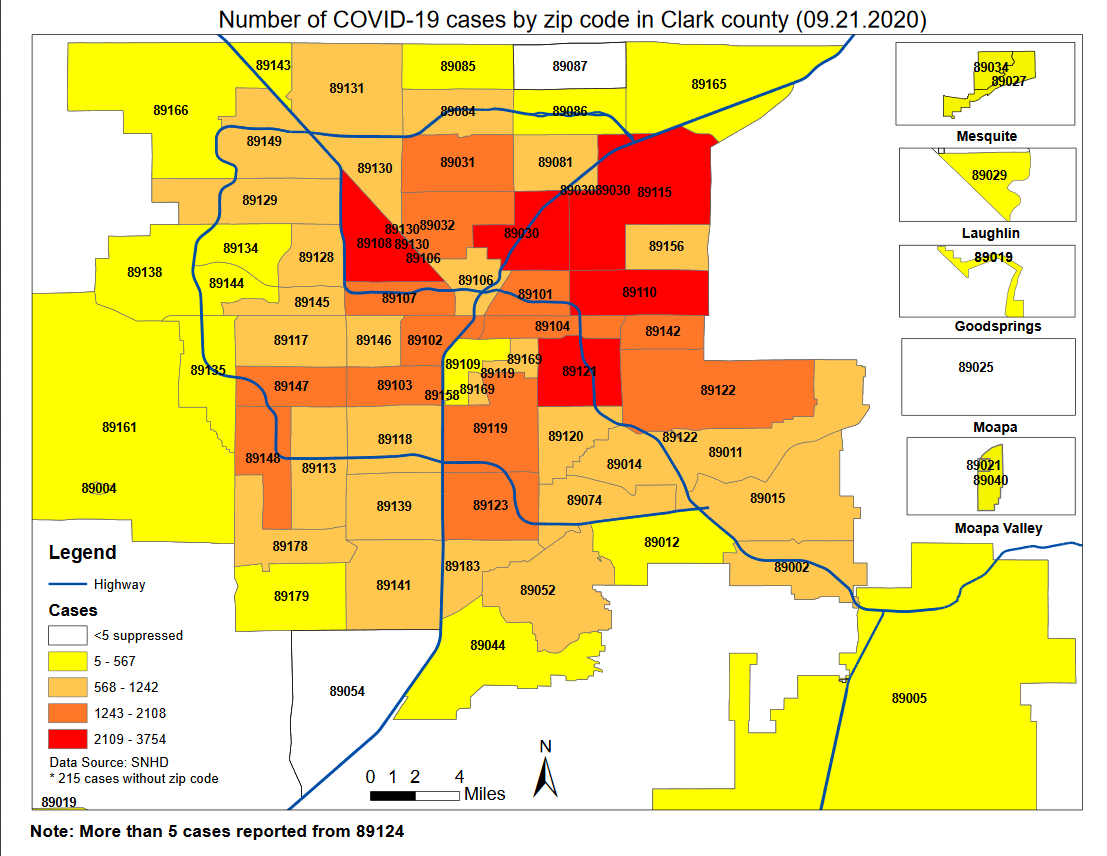
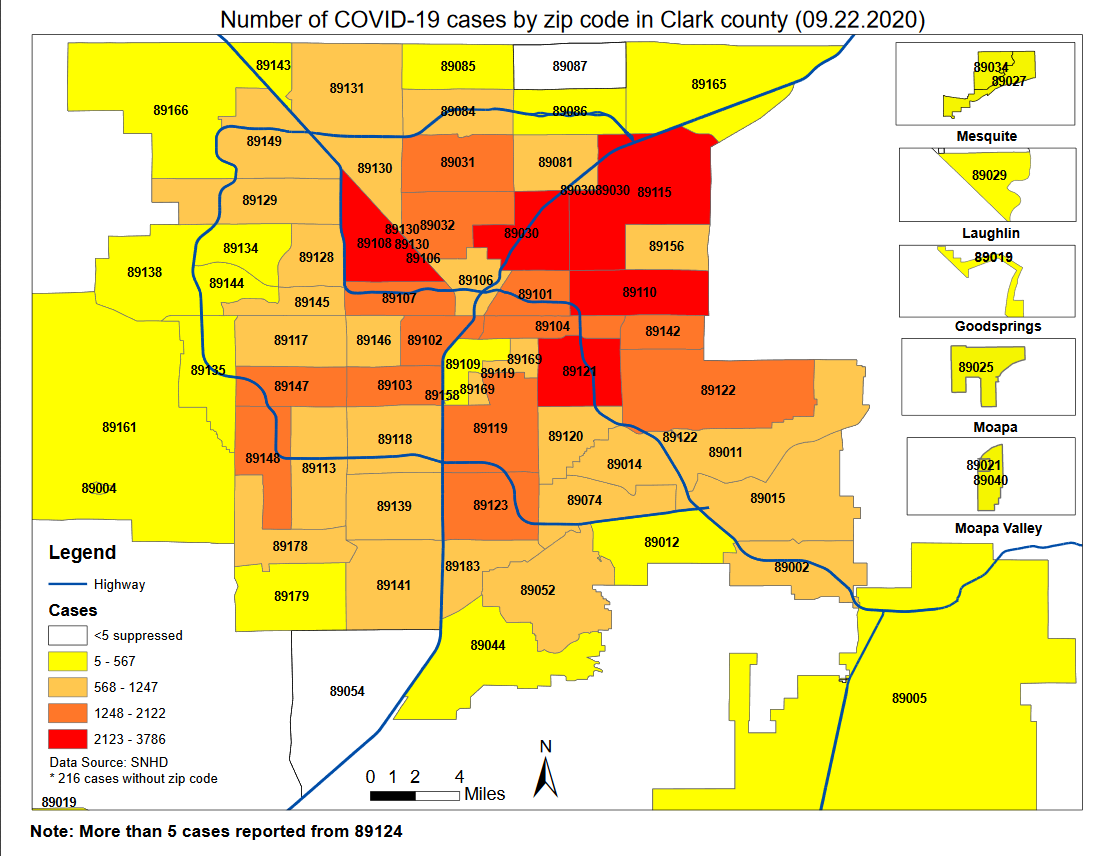
Day 203

diff --git a/src/pages/clarkcounty.js b/src/pages/clarkcounty.js
@@ -219,6 +219,7 @@ class ClarkPage extends Component {
 				'9/19/20',
 				'9/20/20',
 				'9/21/20',
+				'9/22/20',
 			],
 			datasets: [
 				{
@@ -427,6 +428,7 @@ class ClarkPage extends Component {
 						64160,
 						64288,
 						64470,
+						64895,
 					],
 				},
 			],
@@ -636,6 +638,7 @@ class ClarkPage extends Component {
 				'9/19/20',
 				'9/20/20',
 				'9/21/20',
+				'9/22/20',
 			],
 			datasets: [
 				{
@@ -844,6 +847,7 @@ class ClarkPage extends Component {
 						283,
 						128,
 						182,
+						425,
 					],
 				},
 			],
@@ -1033,6 +1037,7 @@ class ClarkPage extends Component {
 				'9/19/20',
 				'9/20/20',
 				'9/21/20',
+				'9/22/20',
 			],
 			datasets: [
 				{
@@ -1221,6 +1226,7 @@ class ClarkPage extends Component {
 						5921,
 						5934,
 						6018,
+						6071,
 					],
 				},
 			],
@@ -1409,6 +1415,7 @@ class ClarkPage extends Component {
 				'9/19/20',
 				'9/20/20',
 				'9/21/20',
+				'9/22/20',
 			],
 			datasets: [
 				{
@@ -1597,6 +1604,7 @@ class ClarkPage extends Component {
 						9,
 						13,
 						84,
+						53,
 					],
 				},
 			],
@@ -1806,6 +1814,7 @@ class ClarkPage extends Component {
 				'9/19/20',
 				'9/20/20',
 				'9/21/20',
+				'9/22/20',
 			],
 			datasets: [
 				{
@@ -2013,6 +2022,7 @@ class ClarkPage extends Component {
 						1329,
 						1328,
 						1343,
+						1353,
 					],
 					backgroundColor: 'maroon',
 				},
@@ -2211,6 +2221,7 @@ class ClarkPage extends Component {
 				'9/19/20',
 				'9/20/20',
 				'9/21/20',
+				'9/22/20',
 			],
 			datasets: [
 				{
@@ -2407,6 +2418,7 @@ class ClarkPage extends Component {
 						2,
 						-1,
 						15,
+						10,
 					],
 				},
 			],
@@ -2616,6 +2628,7 @@ class ClarkPage extends Component {
 				'9/19/20',
 				'9/20/20',
 				'9/21/20',
+				'9/22/20',
 			],
 			datasets: [
 				{
@@ -2815,14 +2828,15 @@ class ClarkPage extends Component {
 						7.3,
 						7.4,
 						7.5,
-						7.5,
+						7.6,
 						7.8,
 						7.4,
 						7.3,
 						7.3,
-						7.3,
+						7.2,
 						7.1,
-						7.3,
+						7.2,
+						7.5,
 						null,
 						null,
 						null,
@@ -2901,6 +2915,7 @@ class ClarkPage extends Component {
 						null,
 						null,
 						null,
+						6.9,
 						6.9,
 						6.9,
 						6.9,
@@ -3249,6 +3264,7 @@ class ClarkPage extends Component {
 						3.9,
 						3.9,
 						3.9,
+						3.9,
 					],
 				},
 			],
@@ -3259,7 +3275,7 @@ class ClarkPage extends Component {
 			datasets: [
 				{
 					label: 'Age of Cases',
-					data: [1335, 5013, 8293, 30815, 12473, 6524],
+					data: [1342, 5052, 8341, 31029, 12552, 6563],
 					backgroundColor: [
 						'rgb(54, 162, 235)', //blue
 						'rgb(255, 99, 132)', //salmon
@@ -3277,7 +3293,7 @@ class ClarkPage extends Component {
 			datasets: [
 				{
 					label: 'Sex',
-					data: [32974, 31125, 371],
+					data: [33195, 31327, 373],
 					backgroundColor: [
 						'rgb(255, 99, 132)',
 						'rgb(54, 162, 235)',
@@ -3319,8 +3335,8 @@ class ClarkPage extends Component {
 											</div>
 										</div>
 										<div className='card-value pt-4'>
-											<h1>64,470</h1>
-											<h2 className='is_salmon'>+ 182</h2>
+											<h1>64,895</h1>
+											<h2 className='is_salmon'>+ 425</h2>
 										</div>
 									</div>
 								</div>
@@ -3332,8 +3348,8 @@ class ClarkPage extends Component {
 											</div>
 										</div>
 										<div className='card-value pt-4'>
-											<h1>6,018</h1>
-											<h2 className='is_salmon'>+ 84</h2>
+											<h1>6,071</h1>
+											<h2 className='is_salmon'>+ 53</h2>
 										</div>
 									</div>
 								</div>
@@ -3345,8 +3361,8 @@ class ClarkPage extends Component {
 											</div>
 										</div>
 										<div className='card-value pt-4'>
-											<h1>92.7%</h1>
-											<h2 className='is_salmon'>+ 0.0%</h2>
+											<h1>92.5%</h1>
+											<h2 className='is_salmon'>- 0.2%</h2>
 										</div>
 									</div>
 								</div>
@@ -3358,8 +3374,8 @@ class ClarkPage extends Component {
 											</div>
 										</div>
 										<div className='card-value pt-4'>
-											<h1>1,343</h1>
-											<h2 className='is_salmon'>+ 15</h2>
+											<h1>1,353</h1>
+											<h2 className='is_salmon'>+ 10</h2>
 										</div>
 									</div>
 								</div>

diff --git a/src/pages/nevada.js b/src/pages/nevada.js
@@ -217,6 +217,7 @@ class NevadaPage extends Component {
 				'9/19/20',
 				'9/20/20',
 				'9/21/20',
+				'9/22/20',
 			],
 			datasets: [
 				{
@@ -424,6 +425,7 @@ class NevadaPage extends Component {
 						75804,
 						76036,
 						76298,
+						76807,
 					],
 					fill: false, // Don't fill area under the line
 					backgroundColor: '#933A16', // Line color
@@ -634,6 +636,7 @@ class NevadaPage extends Component {
 				'9/19/20',
 				'9/20/20',
 				'9/21/20',
+				'9/22/20',
 			],
 			datasets: [
 				{
@@ -842,6 +845,7 @@ class NevadaPage extends Component {
 						385,
 						232,
 						262,
+						509,
 					],
 					fill: false, // Don't fill area under the line
 					backgroundColor: '#933A16', // Bar color
@@ -1052,6 +1056,7 @@ class NevadaPage extends Component {
 				'9/19/20',
 				'9/20/20',
 				'9/21/20',
+				'9/22/20',
 			],
 			datasets: [
 				{
@@ -1247,18 +1252,19 @@ class NevadaPage extends Component {
 						1459,
 						1468,
 						1479,
-						1487,
-						1495,
+						1488,
 						1498,
-						1502,
-						1511,
-						1514,
-						1523,
-						1531,
-						1538,
-						1539,
+						1503,
+						1507,
+						1516,
+						1519,
+						1528,
+						1537,
 						1544,
-						1544,
+						1546,
+						1551,
+						1554,
+						1555,
 					],
 					backgroundColor: 'maroon',
 				},
@@ -1457,6 +1463,7 @@ class NevadaPage extends Component {
 				'9/19/20',
 				'9/20/20',
 				'9/21/20',
+				'9/22/20',
 			],
 			datasets: [
 				{
@@ -1641,18 +1648,19 @@ class NevadaPage extends Component {
 						10,
 						9,
 						11,
-						8,
-						8,
-						3,
+						9,
+						10,
+						5,
 						4,
 						9,
 						3,
 						9,
-						8,
+						9,
 						7,
-						1,
+						2,
 						5,
-						0,
+						3,
+						1,
 					],
 				},
 			],
@@ -1862,6 +1870,7 @@ class NevadaPage extends Component {
 				'9/19/20',
 				'9/20/20',
 				'9/21/20',
+				'9/22/20',
 			],
 			datasets: [
 				{
@@ -2066,7 +2075,8 @@ class NevadaPage extends Component {
 						10.1,
 						10.1,
 						10.1,
-						10.1,
+						10.0,
+						10.0,
 						10.0,
 						10.0,
 						10.0,
@@ -2279,8 +2289,9 @@ class NevadaPage extends Component {
 						6.6,
 						6.6,
 						6.9,
-						6.8,
 						7.1,
+						7.5,
+						7.3,
 						null,
 					],
 				},
@@ -2358,6 +2369,7 @@ class NevadaPage extends Component {
 						null,
 						null,
 						null,
+						11.0,
 						11.0,
 						11.0,
 						11.0,
@@ -2704,6 +2716,7 @@ class NevadaPage extends Component {
 						6.1,
 						6.1,
 						6.1,
+						6.1,
 					],
 				},
 			],
@@ -2739,8 +2752,8 @@ class NevadaPage extends Component {
 										</div>
 									</div>
 									<div className='card-value pt-4'>
-										<h1>668,264</h1>
-										<h2 className='is_salmon'>+ 2,202</h2>
+										<h1>670,908</h1>
+										<h2 className='is_salmon'>+ 2,644</h2>
 									</div>
 								</div>
 							</div>
@@ -2752,8 +2765,8 @@ class NevadaPage extends Component {
 										</div>
 									</div>
 									<div className='card-value pt-4'>
-										<h1>592,776</h1>
-										<h2 className='is_salmon'>+ 2,020</h2>
+										<h1>595,117</h1>
+										<h2 className='is_salmon'>+ 2,341</h2>
 									</div>
 								</div>
 							</div>
@@ -2765,8 +2778,8 @@ class NevadaPage extends Component {
 										</div>
 									</div>
 									<div className='card-value pt-4'>
-										<h1>76,298</h1>
-										<h2 className='is_salmon'>+ 262</h2>
+										<h1>76,807</h1>
+										<h2 className='is_salmon'>+ 509</h2>
 									</div>
 								</div>
 							</div>
@@ -2778,8 +2791,8 @@ class NevadaPage extends Component {
 										</div>
 									</div>
 									<div className='card-value pt-4'>
-										<h1>1,544</h1>
-										<h2 className='is_salmon'>+ 15</h2>
+										<h1>1,555</h1>
+										<h2 className='is_salmon'>+ 10</h2>
 									</div>
 								</div>
 							</div>
